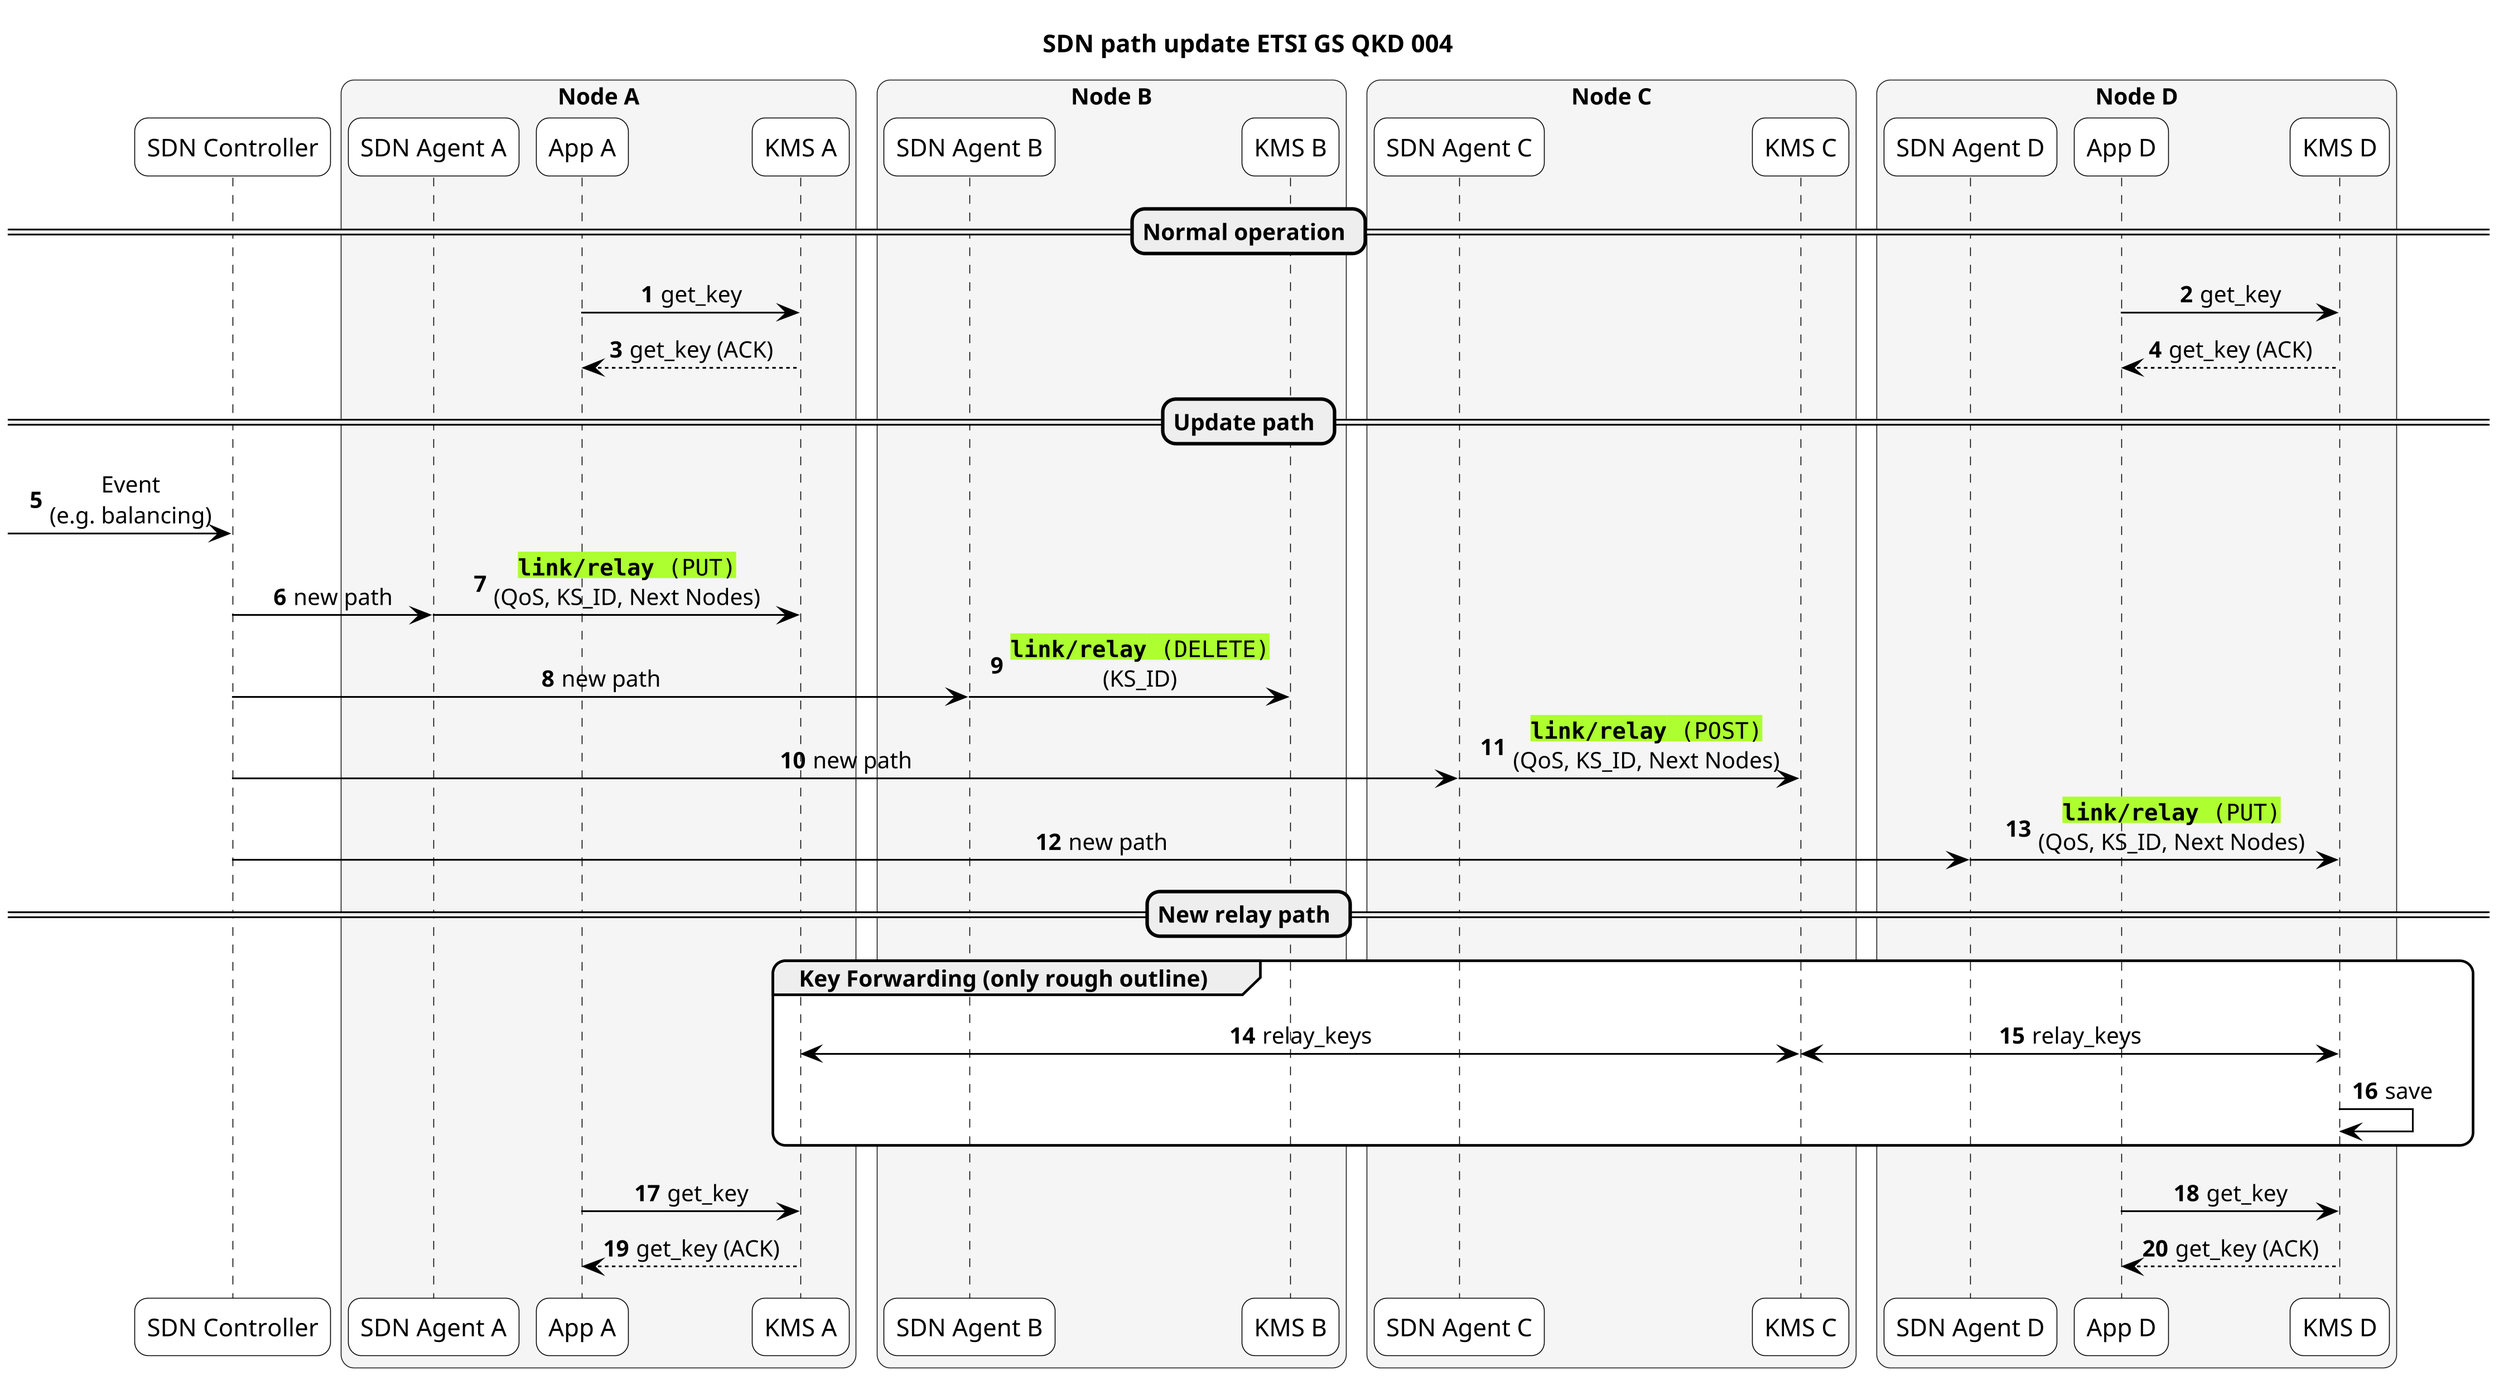
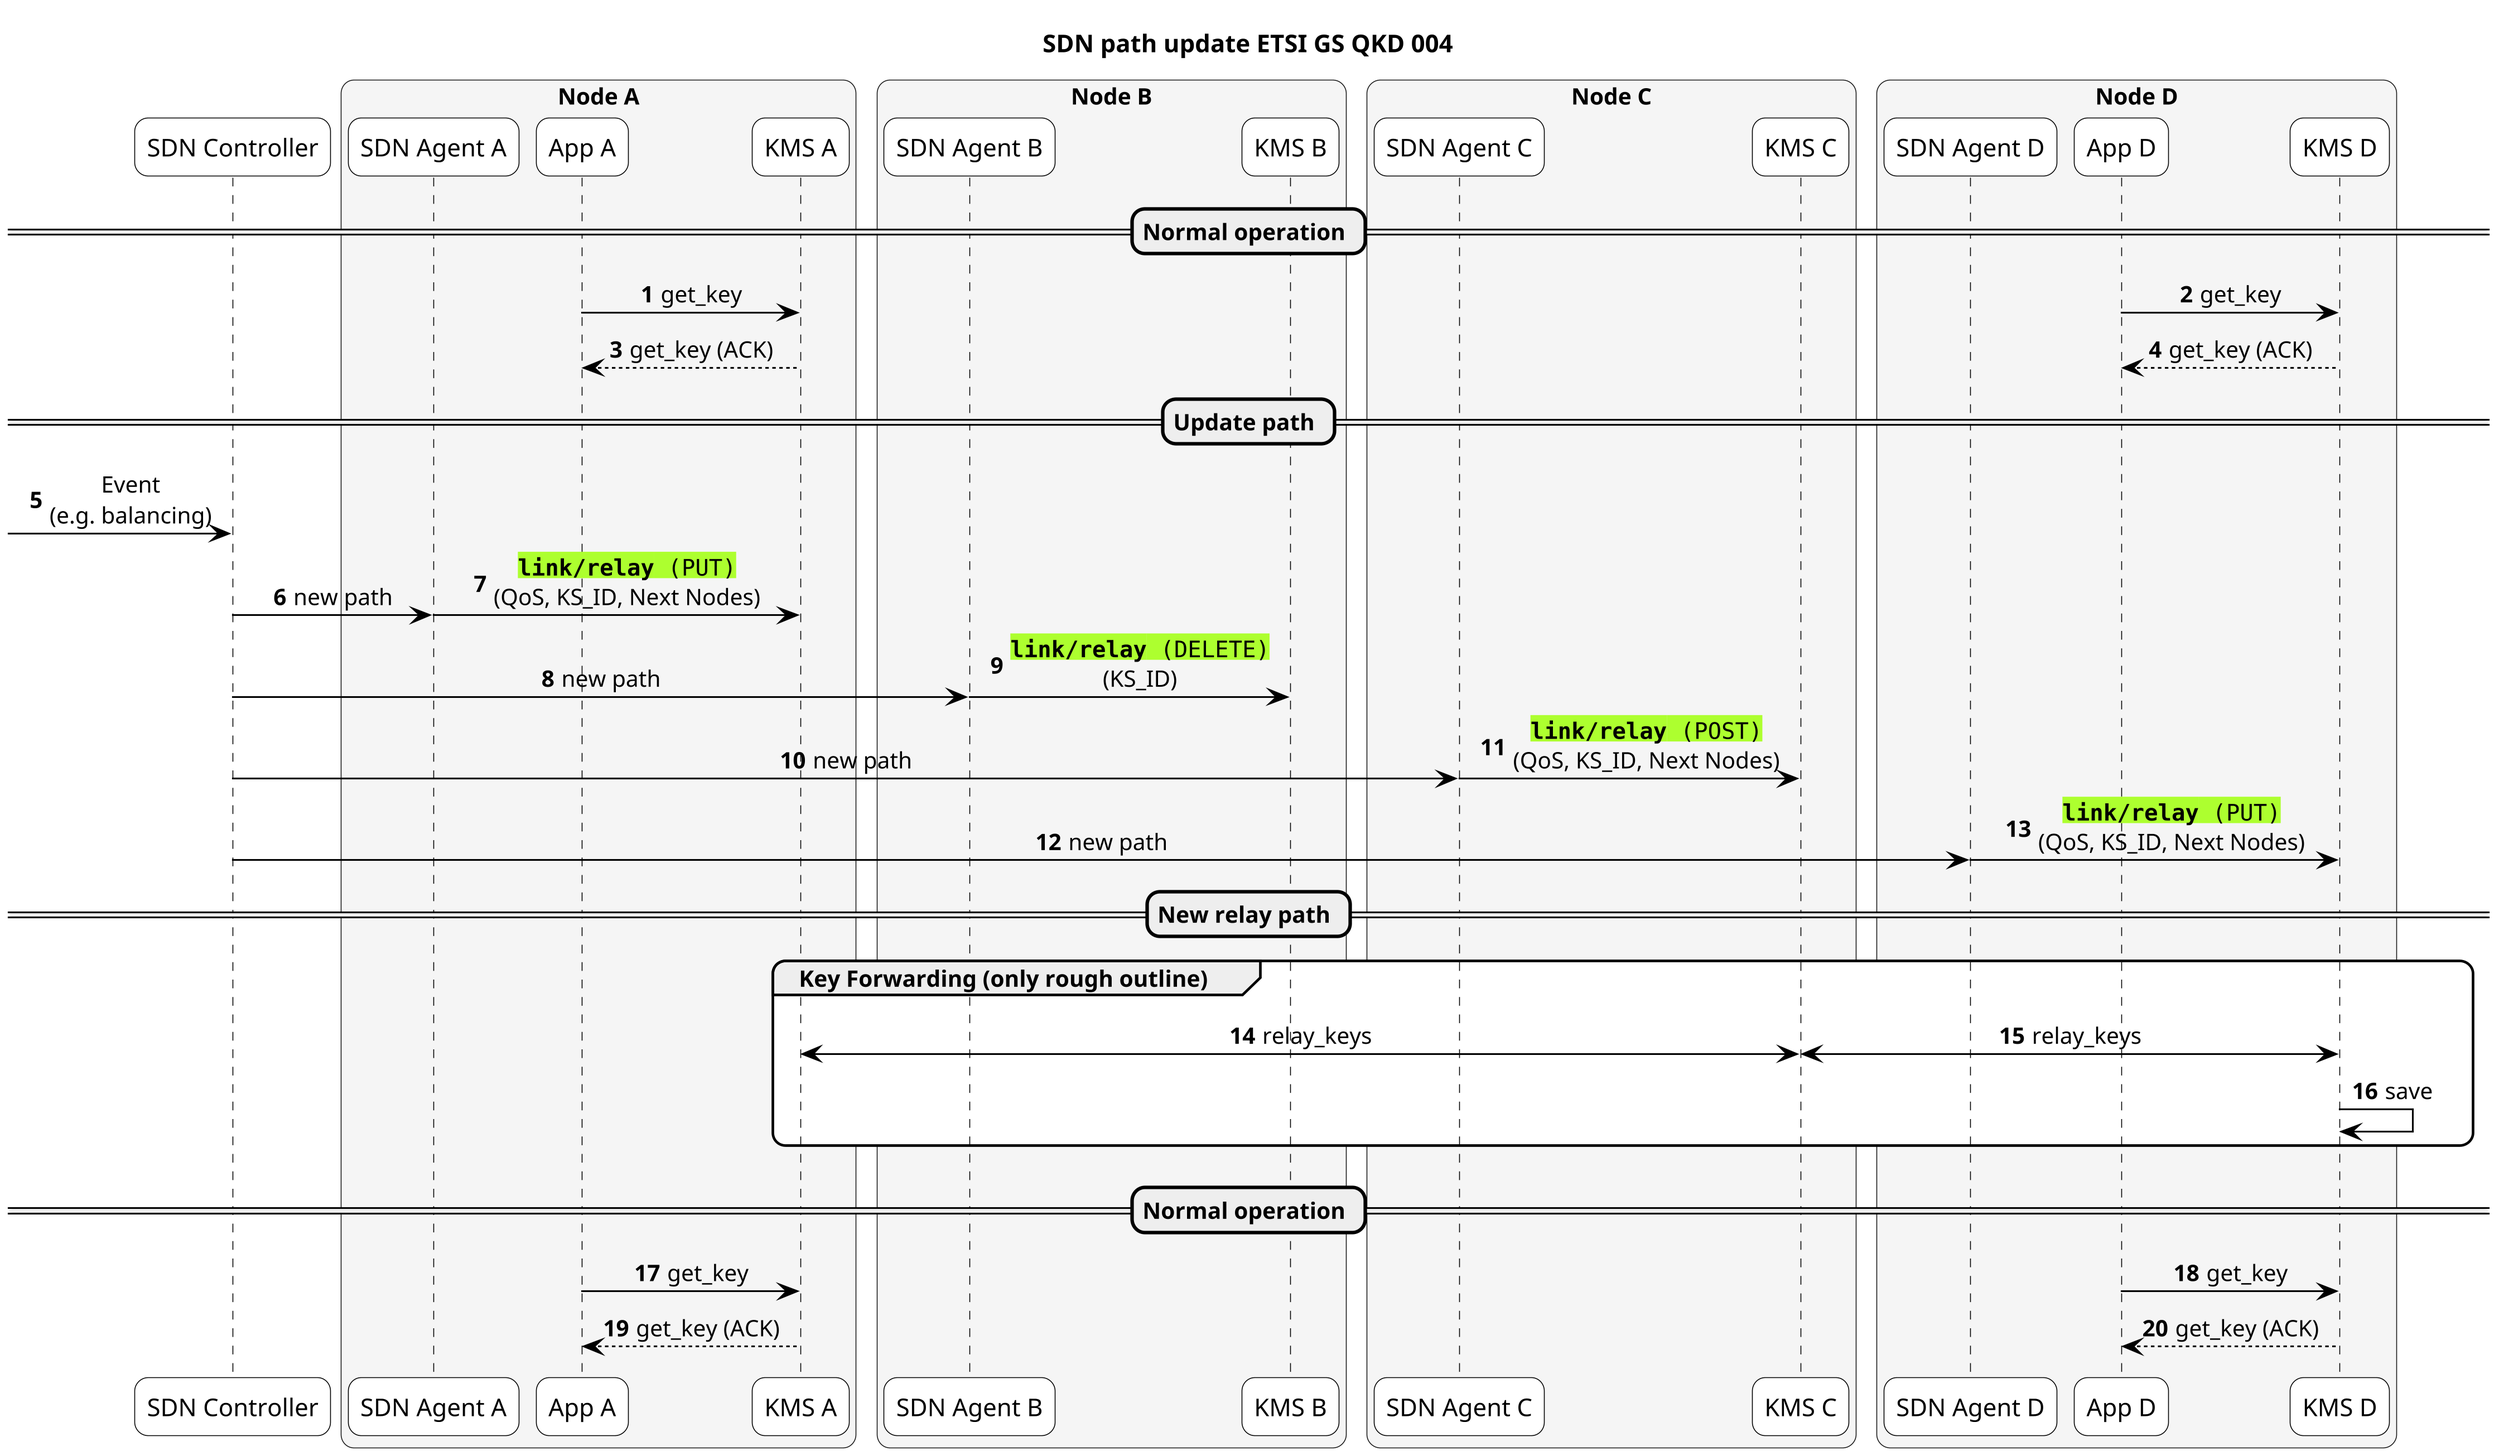
add notes for out of scope messages. Fix language in readme. Closes #23

diff --git a/readme.md b/readme.md
@@ -9,7 +9,7 @@ KMS to SDN API for QKDN<!-- omit in toc -->
   - [3.3. Security](#33-security)
   - [3.4. ETSI GS QKD 015 compatibility](#34-etsi-gs-qkd-015-compatibility)
   - [3.5. Vendor specifics support](#35-vendor-specifics-support)
-  - [3.6. Deadlock aware implementation](#36-deadlock-aware-implementation)
+  - [3.6. Deadlock-aware implementation](#36-deadlock-aware-implementation)
     - [3.6.1. Multithread / async patterns](#361-multithread--async-patterns)
     - [3.6.2. Timeout](#362-timeout)
   - [3.7. Error codes](#37-error-codes)
@@ -112,10 +112,10 @@ Some http error codes are defined in the OpenAPI description. However, all http 
 
 This repository complements research presented in the following publications:
 
-- James, P, Laschet, S, Ramacher, S & Torresetti, L 2023, Key Management Systems for Large-Scale Quantum Key Distribution Networks. in ARES '23: Proceedings of the 18th International Conference on Availability, Reliability and Security., 126, ACM International Conference Proceeding Series, S. 1-9, ARES 2023: The 18th International Conference on Availability, Reliability and Security, Benevento, Italien, 29/08/23. [https://doi.org/10.1145/3600160.3605050](https://doi.org/10.1145/3600160.3605050)
-- Brito, JP, Ballesta, J, Brito-Mendez, R, Mengual, L, Ortíz, L, Martin, V, Cantó, R, Muñiz, A, Pastor, A, Lopez, D, Laschet, S, Ramacher, S, Piscione, P, Abdulwahed, AK, Giardina, P, Freitas, M, Calé, R, Maia, L, Magalhães, L, Anjos, G, Chaves, R, Afonso, J, Martins, P, Dias, T, Pinto, F, Vieira, M, Bacar, R & Bastos, C 2025, Secure Network Innovation in Defense: SDN and Quantum Cryptography with DISCRETION. in 2025 International Conference on Quantum Communications, Networking, and Computing (QCNC). S. 261 - 268, International Conference on Quantum Communications, Networking, and Computing (QCNC 2025), Nara, Japan, 31/03/25. [https://doi.org/10.1109/QCNC64685.2025.00049](https://doi.org/10.1109/QCNC64685.2025.00049)
-- Valbusa, F, Lorünser, T, Spini, G & Laschet, S 2025, Relaxing the Single Point of Failure in Quantum Key Distribution Networks: An Overview of Multi-path Approaches. in F Skopik, V Naessens & B De Sutter (Hrsg.), Availability, Reliability and Security: ARES 2025 EU Projects Symposium Workshops, Ghent, Belgium, August 11–14, 2025, Proceedings, Part I. Bd. 15998, Lecture Notes in Computer Science, Bd. 15998, Springer, S. 183–200, ARES 2025 EU Projects Symposium Workshops, Ghent, Belgien, 11/08/25. [https://doi.org/10.1007/978-3-032-00642-4_11](https://doi.org/10.1007/978-3-032-00642-4_11)
-- Bastos, C, Pinto, F, Bacar, R, Anjos, G, Almeida, M, Pinto, AN, Chaves, R, Dias, T, Afonso, J, Calé, R, Freitas, M, Maia, L, Magalhães, L, Muñiz, A, Cantó, R, Brito, JP, Ballesta, J, Méndez, RB, Laschet, S, Ramacher, S, James, P, Torresetti, L, Piscione, P, Abdulwahed, AK, Giardina, P, Martin, V, Ortiz, L, Pastor, A, Muga, N, Silva, N, López, D, Vieira, M, Escribano, C & Mengal, L 2025, DISCRETION: First Field Demonstration of a Quantum Enabled SDN in the Context of a Military Exercise. in 2025 International Conference on Military Communication and Information Systems (ICMCIS). S. 11-18, 2025 International Conference on Military Communication and Information Systems (ICMCIS), Oeiras, Portugal, 13/05/25. [https://doi.org/10.1109/icmcis64378.2025.11047713](https://doi.org/10.1109/icmcis64378.2025.11047713)
+- James, P, Laschet, S, Ramacher, S & Torresetti, L 2023, Key Management Systems for Large-Scale Quantum Key Distribution Networks. in ARES '23: Proceedings of the 18th International Conference on Availability, Reliability and Security., 126, ACM International Conference Proceeding Series, S. 1-9, ARES 2023: The 18th International Conference on Availability, Reliability and Security, Benevento, Italy, 29/08/23. [https://doi.org/10.1145/3600160.3605050](https://doi.org/10.1145/3600160.3605050).
+- Brito, JP, Ballesta, J, Brito-Mendez, R, Mengual, L, Ortíz, L, Martin, V, Cantó, R, Muñiz, A, Pastor, A, Lopez, D, Laschet, S, Ramacher, S, Piscione, P, Abdulwahed, AK, Giardina, P, Freitas, M, Calé, R, Maia, L, Magalhães, L, Anjos, G, Chaves, R, Afonso, J, Martins, P, Dias, T, Pinto, F, Vieira, M, Bacar, R & Bastos, C 2025, Secure Network Innovation in Defense: SDN and Quantum Cryptography with DISCRETION. in 2025 International Conference on Quantum Communications, Networking, and Computing (QCNC). S. 261 - 268, International Conference on Quantum Communications, Networking, and Computing (QCNC 2025), Nara, Japan, 31/03/25. [https://doi.org/10.1109/QCNC64685.2025.00049](https://doi.org/10.1109/QCNC64685.2025.00049).
+- Valbusa, F, Lorünser, T, Spini, G & Laschet, S 2025, Relaxing the Single Point of Failure in Quantum Key Distribution Networks: An Overview of Multi-path Approaches. in F Skopik, V Naessens & B De Sutter (Hrsg.), Availability, Reliability and Security: ARES 2025 EU Projects Symposium Workshops, Ghent, Belgium, August 11–14, 2025, Proceedings, Part I. Bd. 15998, Lecture Notes in Computer Science, Bd. 15998, Springer, S. 183–200, ARES 2025 EU Projects Symposium Workshops, Ghent, Belgium, 11/08/25. [https://doi.org/10.1007/978-3-032-00642-4_11](https://doi.org/10.1007/978-3-032-00642-4_11).
+- Bastos, C, Pinto, F, Bacar, R, Anjos, G, Almeida, M, Pinto, AN, Chaves, R, Dias, T, Afonso, J, Calé, R, Freitas, M, Maia, L, Magalhães, L, Muñiz, A, Cantó, R, Brito, JP, Ballesta, J, Méndez, RB, Laschet, S, Ramacher, S, James, P, Torresetti, L, Piscione, P, Abdulwahed, AK, Giardina, P, Martin, V, Ortiz, L, Pastor, A, Muga, N, Silva, N, López, D, Vieira, M, Escribano, C & Mengal, L 2025, DISCRETION: First Field Demonstration of a Quantum Enabled SDN in the Context of a Military Exercise. in 2025 International Conference on Military Communication and Information Systems (ICMCIS). S. 11-18, 2025 International Conference on Military Communication and Information Systems (ICMCIS), Oeiras, Portugal, 13/05/25. [https://doi.org/10.1109/icmcis64378.2025.11047713](https://doi.org/10.1109/icmcis64378.2025.11047713).
 
 # 4. Acknowledgements
 

diff --git a/doc/readme.md b/doc/readme.md
@@ -21,7 +21,7 @@ In the sequences, the bold and green highlighted messages are within the scope o
 
 As an application either opens a key stream via the ETSI GS QKD 004 `open_connect` or requests keys via ETSI GS QKD 014 `enc_keys`, the KMS first has to know via which path through the network the key(s) should be established. The error-free process works as follows and is displayed in a sequence diagram thereafter (error handling not described here):
 
-- The application starts the request at the source KMS `KMS A` (msg 1, 2)
+- The application starts the request at the source KMS (msg 1, 2)
 - The source KMS notifies its SDN Agent of the request (msg 3)
 - The SDN Agent in turn notifies the SDN Controller (msg 4), which computes the path (msg 5) and notifies all SDN Agents in the relay path (msg 6, 8).
 - The SDN Agents on the relay path configure the path with the next node infos to their corresponding KMS instances (msg 7, 9)
@@ -40,6 +40,9 @@ In case of the ETSI GS QKD 014, each request by the application results in a new
 **Note 3:**
 The KMS should request from the SDN paths which can also support any internal key consumption.
 
+**Note 4:**
+All communication beyond scope is only exemplary, specifically the communication between the SDN Controller and SDN Agent (messages 4, 6, 8, 10, 16, 25) is out of scope.
+
 ## 2.2. Link update (ETSI 004 use-case)
 
 Since the ETSI GS QKD 004 is stateful, it can maintain its path. But high key consumption on a link or an unexpected event (e.g. QKD node unreachable) requires an update of the established path. The error-free process works as follows and is displayed in a sequence diagram thereafter (error handling not described here):
@@ -54,6 +57,9 @@ This update works seamlessly without the application layer noticing, since norma
 **Note 1:**
 
 This message can also be used to tear down a link entirely by sending a `DELETE` to `/link/relay/{key_stream_id}` to every node, for example in case of a key stream close initiated by the SDN Controller.
+
+**Note 2:**
+All communication beyond scope is only exemplary, specifically the communication between the SDN Controller and SDN Agent (messages 6, 8, 10, 12) is out of scope.
 
 ## 2.3. Key stream close (ETSI 004 use-case)
 
